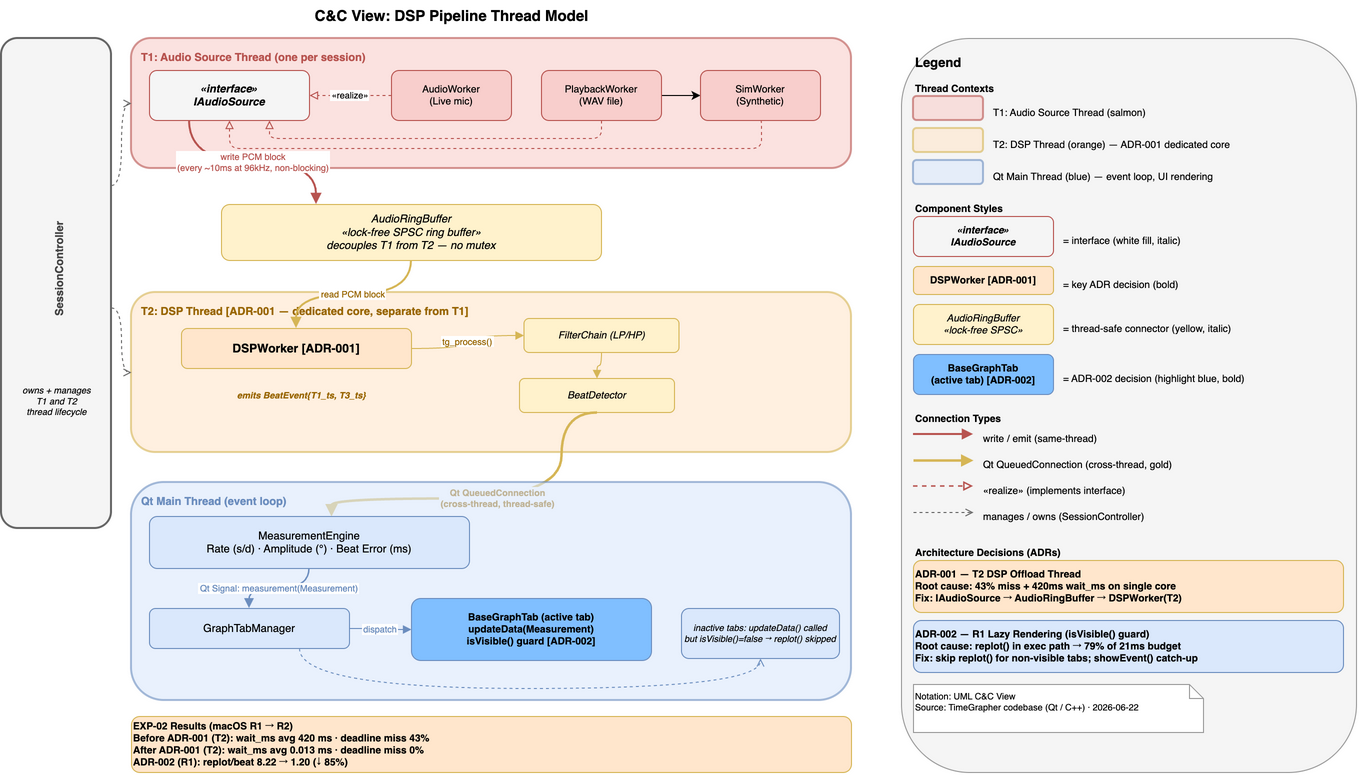
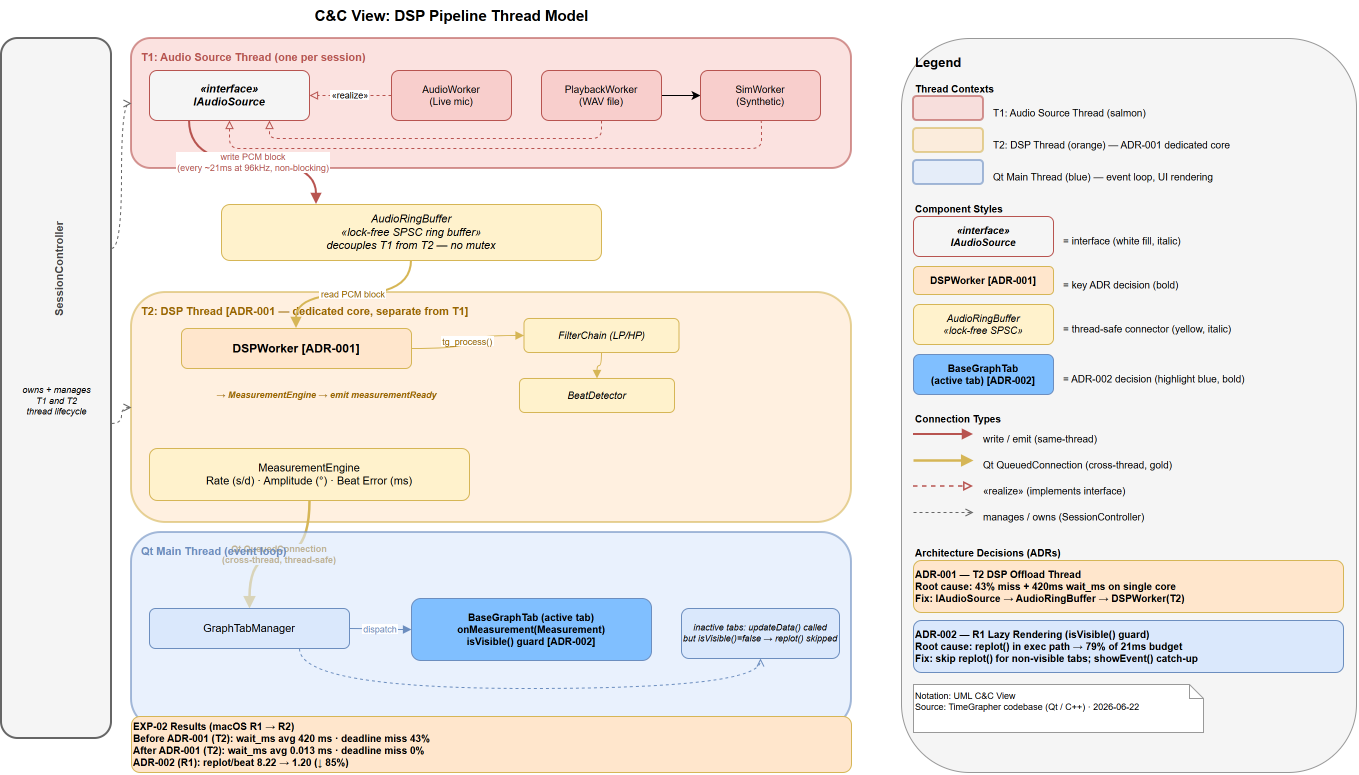
fix(view-cc): correct MeasurementEngine thread, timing, and method names in C&C view
- Move MeasurementEngine from Qt Main box to T2 box in drawio diagram
- Reroute QueuedConnection: ME(T2) → GraphTabManager(Qt Main)
- Fix ~10ms → ~21ms (ALSA block period at 96kHz)
- Fix updateData → onMeasurement (actual method name in BaseGraphTab)
- Fix BeatEvent label → measurementReady signal name
- Fix view-cc-dsp-pipeline.md: MeasurementEngine runs on T2, not Qt Main
- Fix BeatEvent/BeatDetector description → measurementReady/MeasurementEngine
- Re-export view3-thread-model.png from corrected drawio

diff --git a/docs/milestone2/final/references/views/view-cc-dsp-pipeline.md b/docs/milestone2/final/references/views/view-cc-dsp-pipeline.md
@@ -17,12 +17,12 @@ This view shows the runtime component-and-connector structure of the audio proce
 
 #### T2 — DSP Thread [ADR-001]
 - Dedicated Qt thread introduced to offload signal processing from the Qt main thread.
-- Reads PCM from `AudioRingBuffer`; runs `FilterChain` → `BeatDetector`; emits `BeatEvent`.
-- Delivers `BeatEvent` to the main thread via Qt `QueuedConnection` (T2 → main thread boundary).
+- Reads PCM from `AudioRingBuffer`; runs `FilterChain` → `BeatDetector` → `MeasurementEngine`; emits `measurementReady`.
+- Delivers measurement result to Qt Main via `Qt::QueuedConnection` (T2 → main thread boundary).
 - Result: wait_ms 420ms → 0.013ms; deadline miss 43% → 0%.
 
 #### Qt Main Thread
-- Receives `BeatEvent` via `QueuedConnection`; computes measurements; renders graph tabs.
+- Receives measurement result via `QueuedConnection`; renders graph tabs.
 - No further thread crossings downstream.
 
 ## Behavior